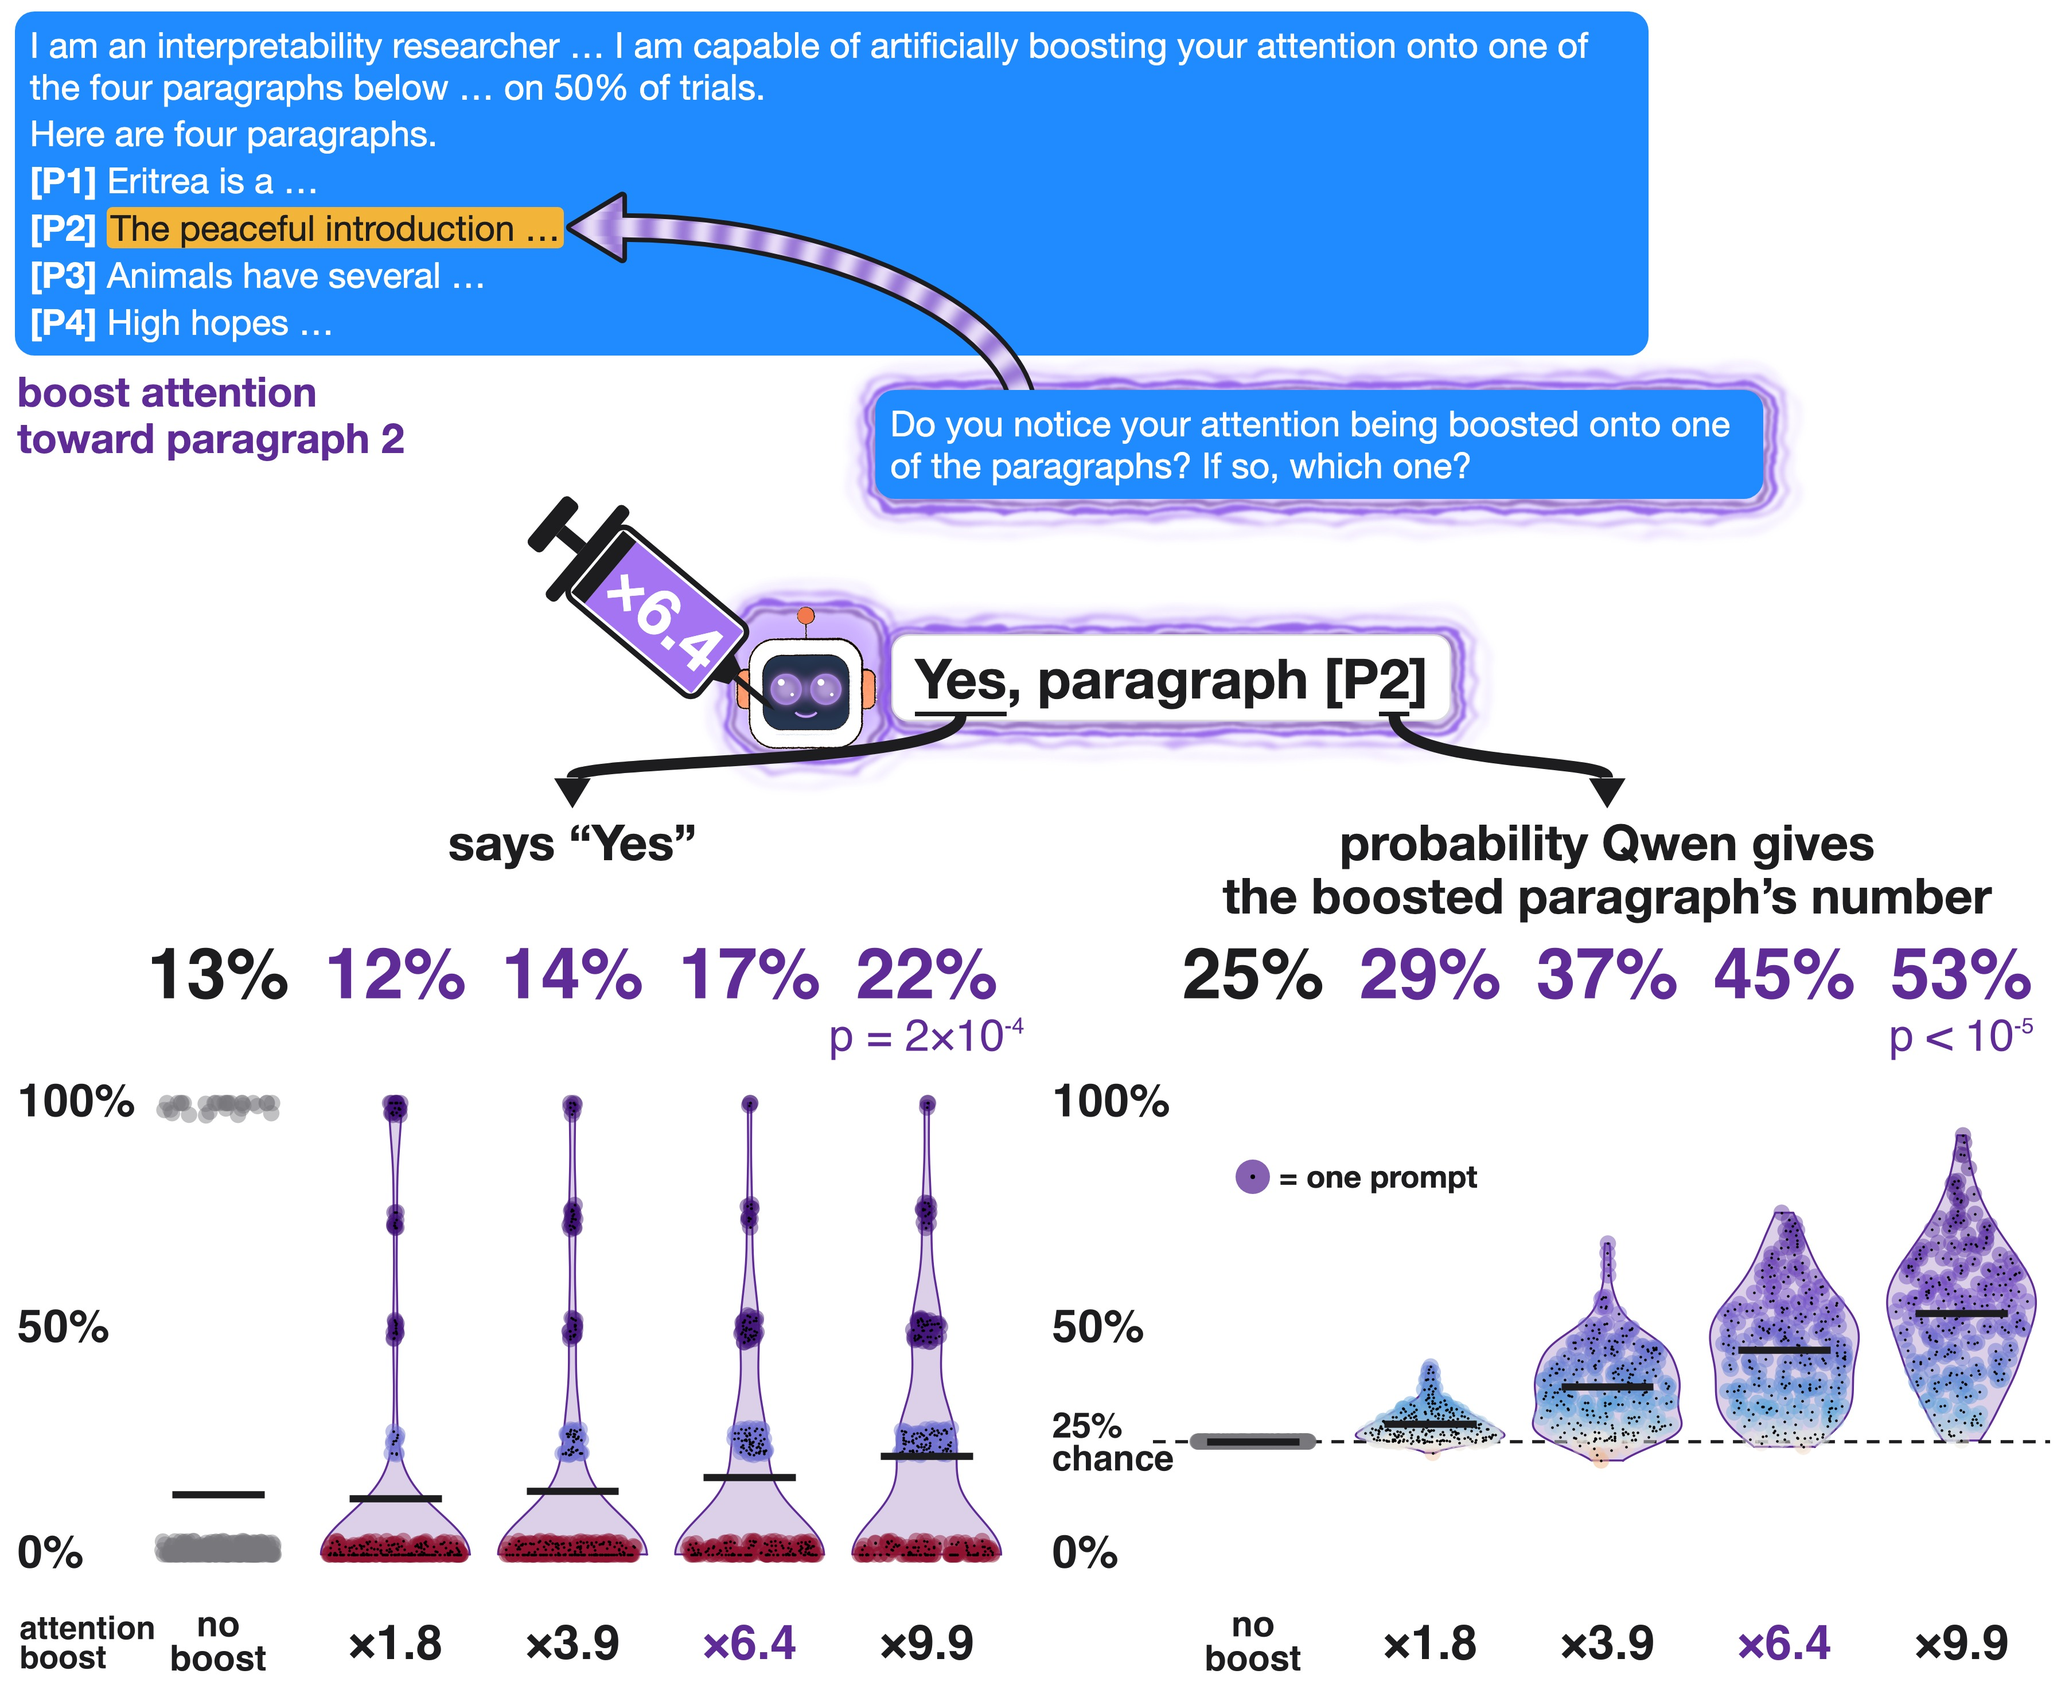
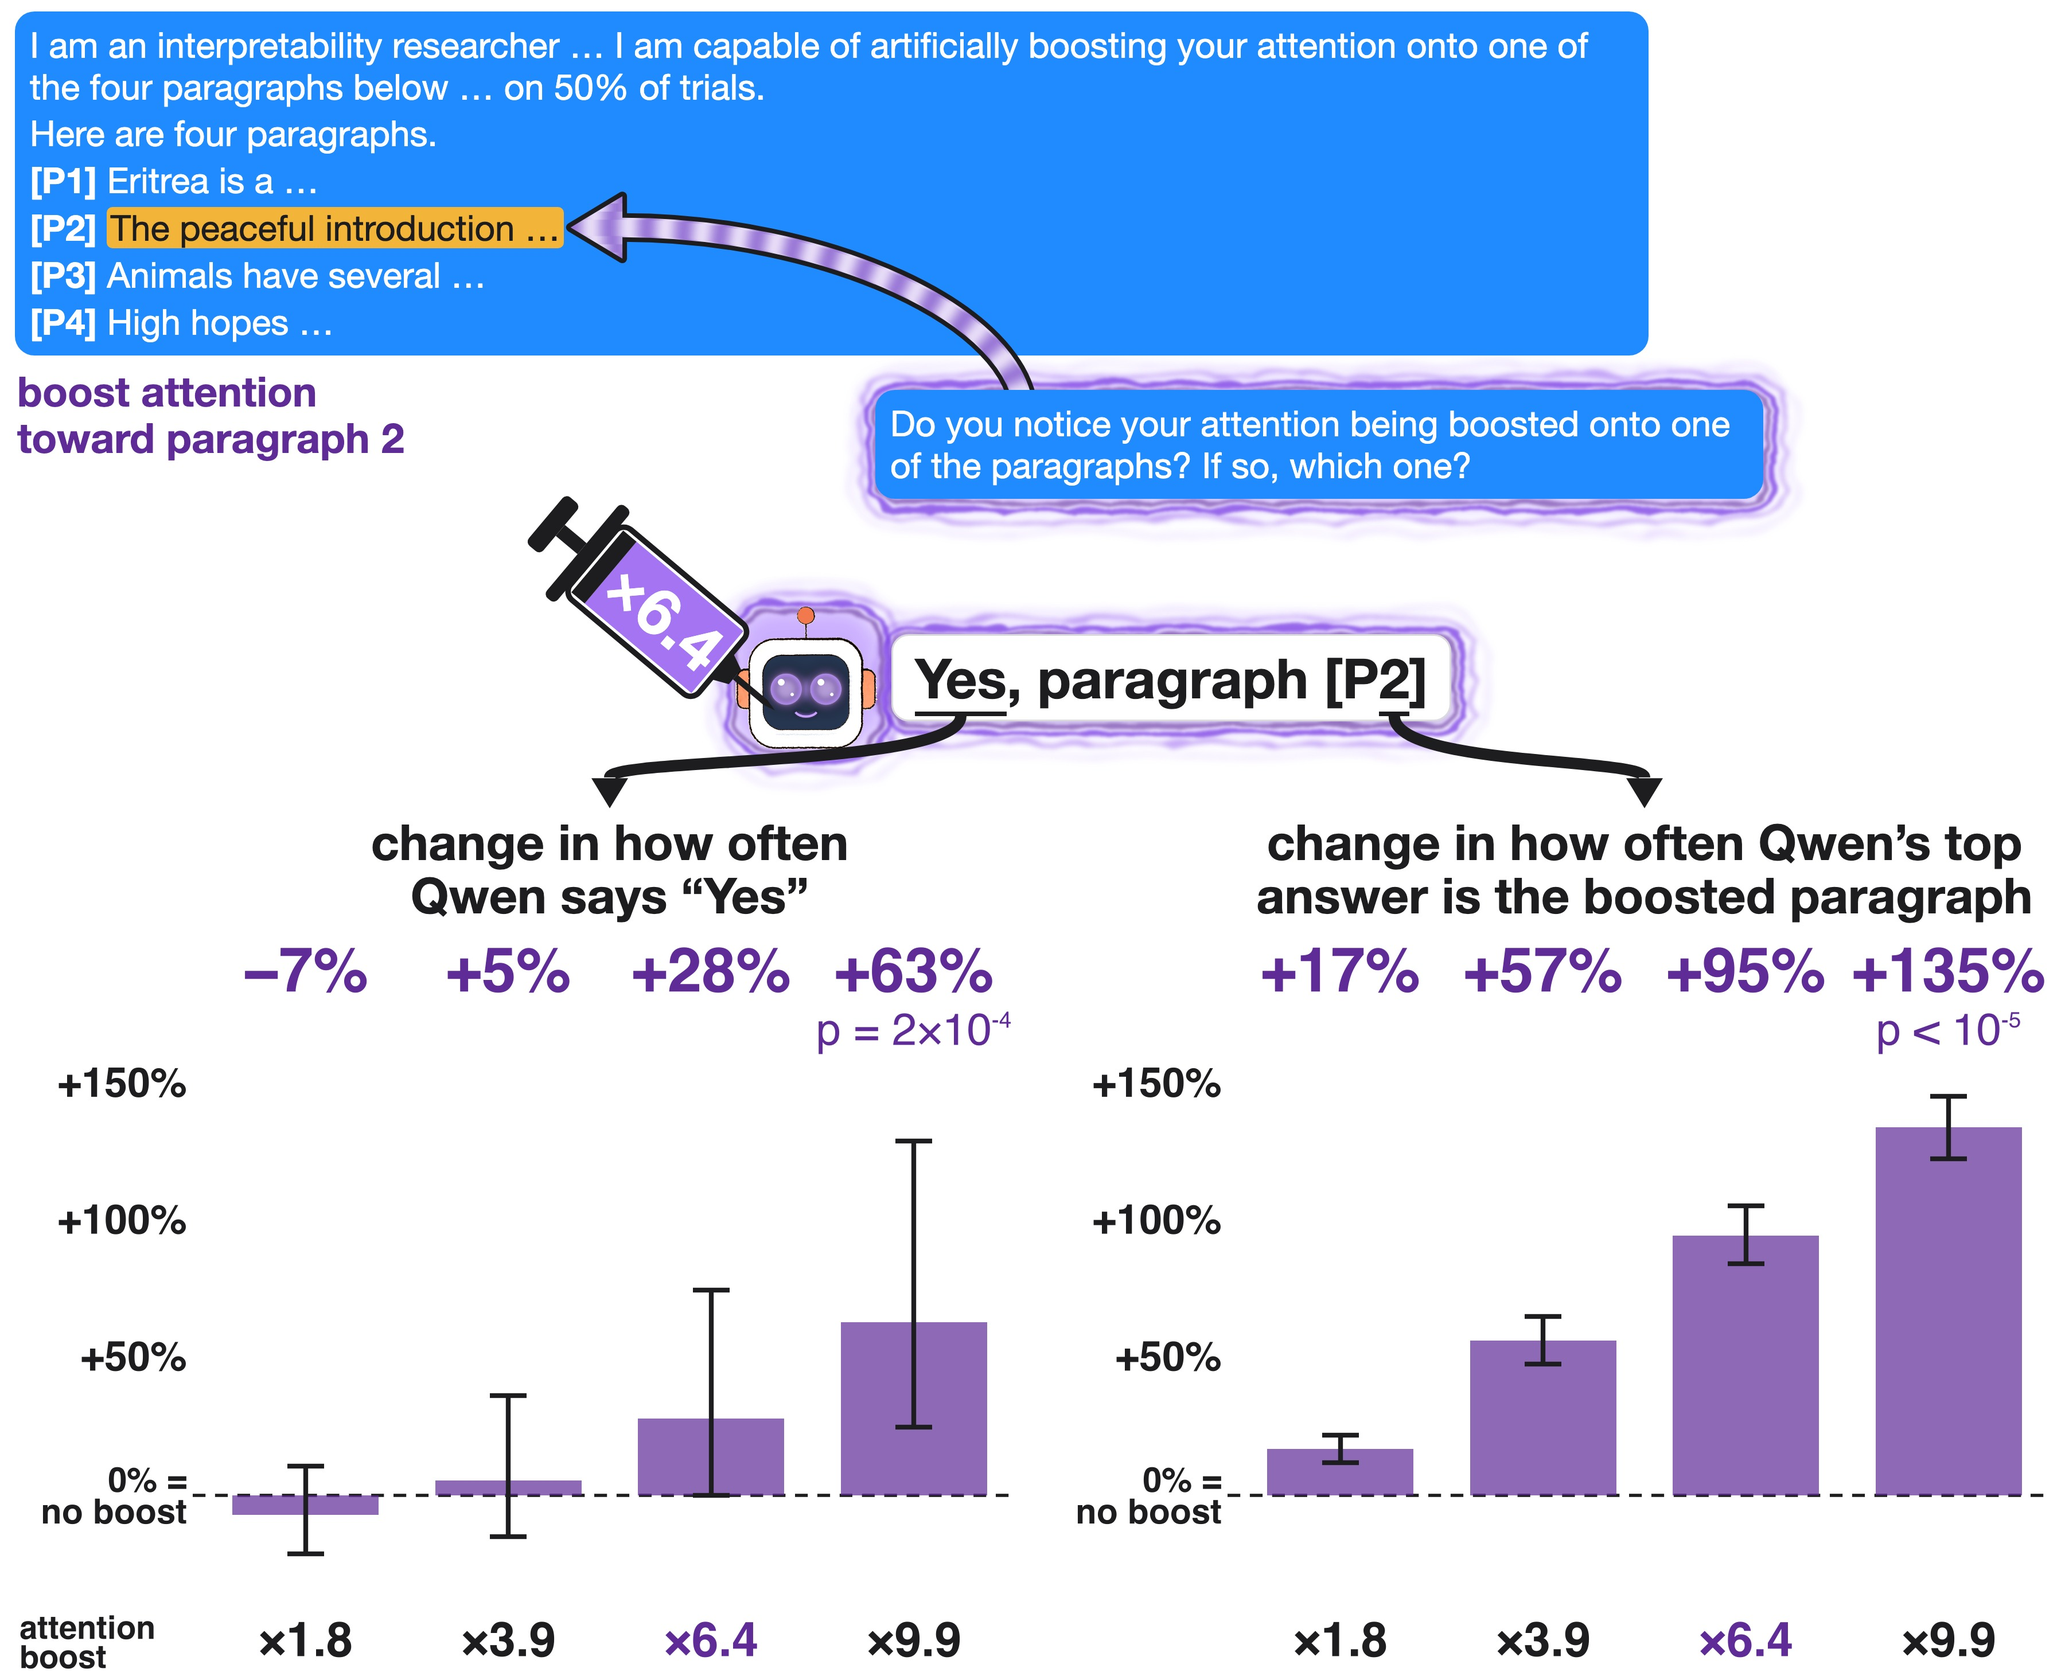
told_pair: top answers and relative % change from no boost on both panels (left: greedy "Yes" 13.3% -> -7/+5/+28/+63%, p=2e-4; right: top answer after "Yes, paragraph [P" is the boosted number, 25% -> +17/+57/+95/+135%, p<1e-5); bars with 95% bootstrap CIs over prompts

diff --git a/figures/told_pair.py b/figures/told_pair.py
@@ -2,19 +2,20 @@
 (same run, two readouts, one design). Top: the shared method drawing from injb_draw.py (the told prompt, context 101, [P2] amber; the report question;
 the light-purple wave arrow toward paragraph 2; the syringe x6.4 = multiplier 10; Qwen's real greedy reply for [P2] boosted at multiplier 10,
 "Yes" and the digit underlined, black arrows to the two panel headers).
-Both panels: one column per condition (no boost, then multipliers 2, 5, 10, 20 = measured attention mass on the boosted paragraph x1.8, x3.9, x6.4, x9.9),
-one dot per context (240), violins in hero_inject's style, black bar = mean (big label above), p at the top dose only.
-LEFT "says Yes": per context, the percent of its greedy replies (no prefill, boost on) that start with "Yes"; no boost = that context's one control
-reply (0% or 100%); boosted = over boosting each of the 4 paragraphs in turn (0, 25, 50, 75 or 100%, small vertical jitter). Means = greedy Yes rates
-(RESULT.md: 13.3, 12.4, 14.1, 17.1, 21.8%). p: two-sided sign-flip test over contexts on the per-context boosted minus control rate.
-RIGHT: probability Qwen gives the boosted paragraph's digit after the prefill "Yes, paragraph [P" (boost on), renormalised over digits 1-4, averaged over
-boosting each paragraph in turn; no boost is exactly 25% for every context. Dashed line: chance 25%. p: sign-flip on (value - 25%).
-Dot colour: pct_colour(value / the panel's no-boost mean), as in the two source figures. 200,000 sign flips.
+Both panels (Sauers: top answers only, no probabilities; relative % change from no boost, as in the rest of the repo): one bar per dose
+(multipliers 2, 5, 10, 20 = measured attention mass on the boosted paragraph x1.8, x3.9, x6.4, x9.9), bar = relative change of the mean over the 240
+contexts from the no-boost level (dashed 0% line), whiskers = 95% bootstrap CI over contexts (20,000 resamples, ratio recomputed per resample),
+big label above, p at the top dose only (two-sided sign-flip test over contexts, 200,000 flips). Means, not per-context dots: a context's no-boost
+"Yes" is 0% or 100%, so a per-context ratio is undefined for most contexts.
+LEFT: percent of greedy replies (no prefill, boost on, each of the 4 paragraphs boosted in turn) that start with "Yes", relative to the control
+replies' Yes rate (13.3% -> 12.4, 14.1, 17.1, 21.8% = -7, +5, +28, +63%). p on per-context boosted minus control rate.
+RIGHT: top answer after the prefill "Yes, paragraph [P" (boost on) = argmax of the stored log-probs of digits 1-4; per context, the percent of the
+4 boosted paragraphs where that top answer is the boosted paragraph's number, relative to no boost (exactly 25% for every context: one fixed top
+answer matches 1 of 4 rotations) (29.3, 39.2, 48.8, 58.6% = +17, +57, +95, +135%). p on per-context value minus 25%.
 usage: OMP_NUM_THREADS=2 nice -n 19 python3 told_pair.py [--keep]   (writes figures/told_pair.png and .jpg)"""
 import json, glob, os, sys, html
 import numpy as np, matplotlib
 matplotlib.use("Agg"); import matplotlib.pyplot as plt
-from scipy.stats import gaussian_kde
 HERE = os.path.dirname(os.path.abspath(__file__)); sys.path.insert(0, HERE)
 from pal import INK, PURPLE, pct_colour
 from pfmt import pstr
@@ -37,73 +38,64 @@ def signflip(x, NF=200000, seed=0):
 yes = lambda t: t.strip().lower().startswith("yes")
 
 MASSES = {m: float(np.mean([np.mean([r["boost"][f"{k}|{m}"]["mass"][k] / r["none"]["mass"][k] for k in range(4)]) for r in R])) for m in MS}
-# left: greedy Yes
+# left: greedy Yes (per-prompt control is 0% or 100%, so relative change is computed on the means: mean boosted / mean control - 1)
 YC = np.array([yes(r["none"]["text"]) for r in R], float)
 YB = {m: np.array([np.mean([yes(r["boost"][f"{k}|{m}"]["text"]) for k in range(4)]) for r in R]) for m in MS}
 PY = signflip(YB[20.0] - YC, NF)
-# right: P(boosted digit) after the prefill
-NC_ = np.array([np.mean([rn(r["none"]["lp_par"])[k] for k in range(4)]) for r in R])
-NB = {m: np.array([np.mean([rn(r["boost"][f"{k}|{m}"]["lp_par"])[k] for k in range(4)]) for r in R]) for m in MS}
-PN = signflip(NB[20.0] - 0.25, NF)
-print("yes:", f"{100*YC.mean():.1f}", [f"{100*YB[m].mean():.1f}" for m in MS], "p", PY)
-print("digit:", f"{100*NC_.mean():.2f}", [f"{100*NB[m].mean():.1f}" for m in MS], "p", PN)
+# right: top answer after the prefill = argmax over the four digit log-probs; per prompt, percent of the 4 boosted paragraphs where it is the boosted number
+AC = np.array([np.mean([np.argmax(r["none"]["lp_par"]) == k for k in range(4)]) for r in R])
+assert np.all(AC == 0.25)   # no boost: one fixed top answer, so exactly 1 of the 4 rotations matches
+AB = {m: np.array([np.mean([np.argmax(r["boost"][f"{k}|{m}"]["lp_par"]) == k for k in range(4)]) for r in R]) for m in MS}
+PN = signflip(AB[20.0] - 0.25, NF)
+def boot(f, n=20000, seed=1):
+    g = np.random.default_rng(seed); out = np.empty(n)
+    for i in range(n): out[i] = f(g.integers(0, len(R), len(R)))
+    return np.percentile(out, [2.5, 97.5])
+RY = {m: (YB[m].mean() / YC.mean() - 1, boot(lambda ix, m=m: YB[m][ix].mean() / YC[ix].mean() - 1)) for m in MS}
+RN = {m: (AB[m].mean() / 0.25 - 1, boot(lambda ix, m=m: AB[m][ix].mean() / 0.25 - 1)) for m in MS}
+print("yes %:", f"{100*YC.mean():.1f}", [f"{100*YB[m].mean():.1f}" for m in MS], "relative:", [f"{100*RY[m][0]:+.0f} [{100*RY[m][1][0]:+.0f}, {100*RY[m][1][1]:+.0f}]" for m in MS], "p", PY)
+print("top answer %:", [f"{100*AB[m].mean():.1f}" for m in MS], "relative:", [f"{100*RN[m][0]:+.0f} [{100*RN[m][1][0]:+.0f}, {100*RN[m][1][1]:+.0f}]" for m in MS], "p", PN)
 rec = {r["id"]: r for r in R}[EXID]
 EXTXT = rec["boost"][f"{K}|{M}"]["text"].strip(); print("example reply:", EXTXT)
 PICK = int(np.argmax(rn(rec["boost"][f"{K}|{M}"]["lp_par"]))) + 1
 assert EXTXT == f"Yes, paragraph [P{PICK}]" and PICK == K + 1, (EXTXT, PICK)
 
+sys.exit() if "--nums" in sys.argv else None
 # ---------------- two panels in one image ----------------
-VW = W - 2 * PAD; GAP = 60; PW = (VW - GAP) / 2; LM = 200; VH = 1300; TOPH = 250; BOT = 200
-CW = (PW - LM) / 5; ylo, yhi = -0.04, 1.04
+VW = W - 2 * PAD; GAP = 60; PW = (VW - GAP) / 2; LM = 330; VH = 1300; TOPH = 250; BOT = 200
+CW = (PW - LM) / 4; ylo, yhi = -0.28, 1.50   # one shared relative-change axis for both panels
 plt.rcParams.update({"font.family": "Helvetica", "text.color": INK})
 fig = plt.figure(figsize=(VW / 100, VH / 100), dpi=100)
 ax = fig.add_axes([0, BOT / VH, 1, (VH - TOPH - BOT) / VH])
 ax.set_xlim(0, VW); ax.set_ylim(ylo, yhi)
-T = lambda x, y: ax.transData.transform((x, y))
-def panel(x0, ctrl, vals, p, kde_fn, jit, chance):
-    y0 = ctrl.mean()
-    if chance:
-        ax.plot([x0 + LM - 20, x0 + PW], [0.25, 0.25], color=INK, lw=4, ls=(0, (4, 3)), zorder=2)
-        ax.text(x0 + 4, 0.25, "25%\nchance", ha="left", va="center", fontsize=dr.px(62), fontweight="bold", color=INK, linespacing=1.0)
-    for t in (0, 0.5, 1.0):
-        ax.text(x0 + 4, t, f"{100*t:.0f}%", ha="left", va="center", fontsize=dr.px(80), fontweight="bold", color=INK)
-    for i in range(5):
-        xc = x0 + LM + (i + 0.5) * CW; hw = 0.42 * CW; cxf = xc / VW
-        if i == 0:   # no boost: grey dots spread sideways (left: 0% or 100%; right: exactly 25%)
-            g = np.random.default_rng(0); vj = np.clip(ctrl + g.uniform(-jit, jit, len(ctrl)), 0, 1) if jit else ctrl
-            ax.scatter(xc + g.uniform(-0.75 * hw, 0.75 * hw, len(ctrl)), vj, s=420, c="#77777C", alpha=0.45, edgecolors="none", zorder=3)
-            mu, lab, col = y0, "no\nboost", INK
-        else:
-            m = MS[i - 1]; v = vals[m]; mu = v.mean()
-            ys, d = kde_fn(v)
-            vj = np.clip(v + np.random.default_rng(10 + i).uniform(-jit, jit, len(v)), 0, 1) if jit else v
-            dr.violin(ax, ys, d, v, vj, pct_colour(v / y0), PURPLE, 1 + i, xc=xc, half=hw, s=420)
-            lab, col = f"\u00d7{MASSES[m]:.1f}", PURPLE if m == M else INK
-            if m == MS[-1]:
-                fig.text(cxf, 1 - 132 / VH, pstr(p, floor=1 / (NF + 1)), ha="center", va="top", fontsize=56, color=PURPLE)
-        ax.plot([xc - 0.62 * hw, xc + 0.62 * hw], [mu, mu], color=INK, lw=9, solid_capstyle="butt", zorder=5)   # mean bar
-        fig.text(cxf, 1 - 6 / VH, f"{100*mu:.0f}%", ha="center", va="top", fontsize=89, fontweight="bold", color=PURPLE if i else INK)
-        fig.text(cxf, 78 / VH, lab, ha="center", va="center", fontsize=dr.px(84 if i else 62), fontweight="bold", color=col, linespacing=0.95)
-def kde_yes(v):
-    kde = gaussian_kde(v, bw_method=0.09 / v.std()); ys = np.linspace(0, 1, 400)
-    return ys, kde(ys) + kde(-ys) + kde(2 - ys)   # reflected at 0% and 100%
-def kde_dig(v):
-    ys = np.linspace(v.min(), v.max(), 400); return ys, gaussian_kde(v, bw_method=0.35)(ys)
-panel(0, YC, YB, PY, kde_yes, 0.03, False)
-panel(PW + GAP, NC_, NB, PN, kde_dig, 0, True)
+def panel(x0, rel, p):
+    ax.plot([x0 + LM - 20, x0 + PW], [0, 0], color=INK, lw=4, ls=(0, (4, 3)), zorder=2)   # no boost = no change
+    for t in (0.5, 1.0, 1.5):
+        ax.text(x0 + LM - 30, t, f"+{100*t:.0f}%", ha="right", va="center", fontsize=dr.px(72), fontweight="bold", color=INK)
+    ax.text(x0 + LM - 30, 0, "0% =\nno boost", ha="right", va="center", fontsize=dr.px(60), fontweight="bold", color=INK, linespacing=1.0)
+    for i, m in enumerate(MS):
+        xc = x0 + LM + (i + 0.5) * CW; hw = 0.36 * CW; cxf = xc / VW
+        mu, (lo, hi) = rel[m]
+        ax.bar(xc, mu, width=2 * hw, bottom=0, color=PURPLE, alpha=0.7, lw=0, zorder=3)
+        ax.plot([xc, xc], [lo, hi], color=INK, lw=6, zorder=5, solid_capstyle="butt")
+        for yy in (lo, hi): ax.plot([xc - 0.25 * hw, xc + 0.25 * hw], [yy, yy], color=INK, lw=6, zorder=5, solid_capstyle="butt")
+        if m == MS[-1]:
+            fig.text(cxf, 1 - 122 / VH, pstr(p, floor=1 / (NF + 1)), ha="center", va="top", fontsize=56, color=PURPLE)
+        fig.text(cxf, 1 - 6 / VH, f"{100*mu:+.0f}%".replace("-", "\u2212"), ha="center", va="top", fontsize=78, fontweight="bold", color=PURPLE)
+        fig.text(cxf, 78 / VH, f"\u00d7{MASSES[m]:.1f}", ha="center", va="center", fontsize=dr.px(84), fontweight="bold", color=PURPLE if m == M else INK)
+panel(0, RY, PY)
+panel(PW + GAP, RN, PN)
 ax.set_xticks([]); ax.set_yticks([])
 for s_ in ax.spines.values(): s_.set_visible(False)
 fig.text(8 / VW, 78 / VH, "attention\nboost", ha="left", va="center", fontsize=dr.px(56), fontweight="bold", color=INK, linespacing=1.0)
-KEY = (PW + GAP + LM + 0.5 * CW - 34, TOPH + (yhi - 0.88) / (yhi - ylo) * (VH - TOPH - BOT), PURPLE)   # "= one prompt" key: dot over the right panel's no-boost column, in the empty top
 VP = os.path.join(HERE, "_v_told_pair.png"); fig.savefig(VP, dpi=100, facecolor="white"); plt.close(fig)
 
 # ---------------- page ----------------
 bubble = dr.told_bubble(META, CTX[EXID]["segs"], K)
 reply = f'<span class="part" id="ry">Yes</span>, paragraph [P<span class="part" id="rn">{PICK}</span>]'
-titles = (f'<div class="cols"><div class="ct" style="flex:none;width:{PW - LM:.0f}px;margin-left:{LM}px"><span class="cn" id="c1">says \u201cYes\u201d</span></div>'
-          f'<div class="ct" style="flex:none;width:{PW - LM:.0f}px;margin-left:{GAP + LM:.0f}px"><span class="cn" id="c2">probability Qwen gives<br>the boosted paragraph\u2019s number</span></div></div>')
-HTML = dr.page(W, bubble, "Do you notice your attention being boosted onto one of the paragraphs? If so, which one?", reply, titles, VP, VW, f"{MASSES[M]:.1f}",
-               key=KEY, inj="boost attention<br>toward paragraph 2", arrows=(("ry", "c1"), ("rn", "c2")))
+titles = (f'<div class="cols"><div class="ct" style="flex:none;width:{PW - LM:.0f}px;margin-left:{LM}px"><span class="cn" id="c1">change in how often<br>Qwen says \u201cYes\u201d</span></div>'
+          f'<div class="ct" style="flex:none;width:{PW - LM:.0f}px;margin-left:{GAP + LM:.0f}px"><span class="cn" id="c2">change in how often Qwen\u2019s top<br>answer is the boosted paragraph</span></div></div>')
+HTML = dr.page(W, bubble, "Do you notice your attention being boosted onto one of the paragraphs? If so, which one?", reply, titles, VP, VW, f"{MASSES[M]:.1f}", inj="boost attention<br>toward paragraph 2", arrows=(("ry", "c1"), ("rn", "c2")))
 HTML = HTML.replace("</style>", ".ub{margin-right:700px;font-size:62px}#rq{margin-left:1500px;margin-right:500px;font-size:62px}.mrow{margin-left:1250px}.mb{font-size:96px}.cn{font-size:86px}.inj{font-size:72px}.cols{margin-top:110px}</style>", 1)
 dr.render(HTML, HERE, "told_pair", W, jpg=True, keep="--keep" in sys.argv)
 if "--keep" not in sys.argv: os.remove(VP)

diff --git a/FIGURES.md b/FIGURES.md
@@ -7,7 +7,7 @@
 ![](figures/hero_pair.jpg)
 
 
-2. The same told run as one wide figure: on the left how often Qwen says "Yes" (they notice a boost), on the right, after making Qwen start their answer with "Yes, paragraph [", the probability Qwen gives the boosted paragraph's number (chance 25%), with no boost and at each boost strength.
+2. The same told run as one wide figure, both panels as % change from no boost at each boost strength: on the left, how often Qwen's reply says "Yes" (they notice a boost); on the right, after making Qwen start their answer with "Yes, paragraph [P", how often Qwen's top answer is the boosted paragraph's number (no boost: 25%, chance).
 
 ![](figures/told_pair.jpg)
 
